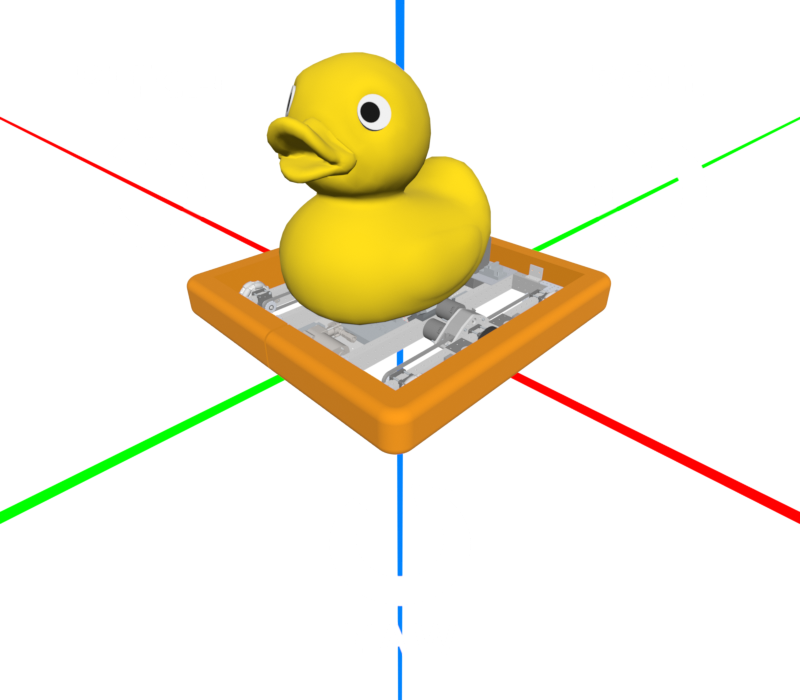
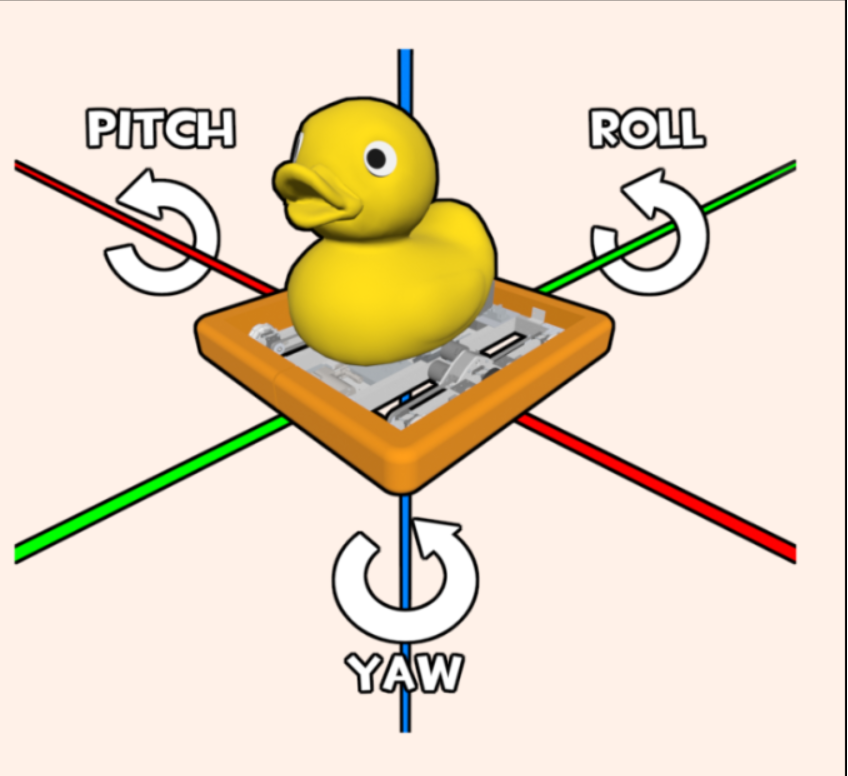
fixes from reviews

Changed region(s): [[0.0, 0.0, 1.0, 1.0]]

diff --git a/documentation/docs/Programming/TurnOnVision.md b/documentation/docs/Programming/TurnOnVision.md
@@ -22,7 +22,7 @@ public static final Transform3d LEFT_CAM_POS =
 
 The above is an example of the position of a right-facing camera which uses PhotonVision. The `Translation3d` takes in the input of the X (distance in front of/behind the origin assuming the robot is facing forward), the Y (distance left/right of the origin assuming the robot is facing forwards) and the Z (distance above/below the origin, which is the ground) distances from the origin of the robot in meters.
 
-Meanwhile, the `Rotation3d` determines how the camera is rotated in roll, pitch, and yaw. Roll, pitch, and yaw are applied in the order of yaw, pitch, and then roll, so basically backwards of the order they are defined.
+Meanwhile, the `Rotation3d` determines how the camera is rotated in roll, pitch, and yaw, with each of them being applied in that order.
 
 One way to visualize it is that roll rotation works like how a steering wheel spins, moving horizontally along a lateral axis. Pitch moves up and down, like nodding your head, while yaw is like shaking your head, turning side to side. The negative value in the roll argument above indicates that the camera is pointing up by 40 degrees. To indicate that our camera is facing right, we turn 90 degrees clockwise for the yaw argument. If we were facing left, this number would be negative.
 
@@ -37,19 +37,19 @@ To get both the angles and positions of the camera, we can turn to Onshape. If y
 
 #### Getting Camera Positions
 
-[]. Open up the Robot Master document, then find and click on your camera.
+- [ ]. Open up the Robot Master document, then find and click on your camera.
 
 ![SelectCamera](../images/ClickOnCamera.png)
 
-[]. Then, find the origin (whether by clicking on it or just finding it inside the file tree).
+- [ ]. Then, find the origin (whether by clicking on it or just finding it inside the file tree).
 
 ![SelectOrigin](../images/SelectOrigin.png)
 
-[]. Click the little measuring tape icon in the very bottom right.
+- [ ]. Click the little measuring tape icon in the very bottom right.
 
-![](../images/MeasuringTape.png)
+!- [ ](../images/MeasuringTape.png)
 
-[]. Change your distance-measuring unit to meters and just like that, you have your inputs for your camera `Translation3d`!
+- [ ]. Change your distance-measuring unit to meters and just like that, you have your inputs for your camera `Translation3d`!
 
 ![GetPosFromMinDistance](../images/getCameraPos.png)
 
@@ -94,15 +94,15 @@ Go to the latest version of Limelight OS and install the zip file for whichever 
 
 #### Installing onto the Camera
 
-[] Plug your computer into the camera via a USB cable (The robot should be on and the camera properly plugged in)
+- [ ] Plug your computer into the camera via a USB cable (The robot should be on and the camera properly plugged in)
 
-[] Open up the Raspberry Pi Imager
+- [ ] Open up the Raspberry Pi Imager
 
-[] Select the type of camera, then click `Use Custom` for the OS (it should be all the way at the bottom)
+- [ ] Select the type of camera, then click `Use Custom` for the OS (it should be all the way at the bottom)
 
-   [] Select the .img.xz file you downloaded earlier from the github repo (or .zip for Limelight)
+   - [ ] Select the .img.xz file you downloaded earlier from the github repo (or .zip for Limelight)
 
-[] For storage, the camera you are plugged into should pop up. NEVER EVER uncheck the box that excludes system devices, unless you want to end up replacing your own computer's operating system with the one for the camera, which is not a great plan.
+- [ ] For storage, the camera you are plugged into should pop up. NEVER EVER uncheck the box that excludes system devices, unless you want to end up replacing your own computer's operating system with the one for the camera, which is not a great plan.
 
 After it finishes the imaging process, the camera should be ready to run! Repeat the previous steps (minus installing the apps and images of course) for all of your cameras.
 
@@ -112,25 +112,27 @@ After it finishes the imaging process, the camera should be ready to run! Repeat
 
 Now that we have our camera positions and they have their operating systems installed, we need to open up the web interface. However, we are met with a problem: we don't know what the IP address to open up the interface is right now. So, let's figure it out!
 
-First, we need to download [Advanced IP Scanner](https://www.advanced-ip-scanner.com/). This is what allows us to detect what IP addresses are in the vicinity, including our mysterious camera! Make sure to set the scanning range from 10.21.22.1-254, so we are only checking for IP addresses for the robot instead of everything in the vacinity. Then, click scan!
+First, we need to download [Advanced IP Scanner](https://www.advanced-ip-scanner.com/). This is what allows us to detect what IP addresses are on the network, including our mysterious camera! Make sure to set the scanning range from 10.21.22.1-254, so we are only checking for IP addresses for the robot instead of every single address on the network. Then, click scan!
 
 So, an example of this would be `10.21.22.201`. Once we find this IP address, we can type it into our browser, and attach the port `:5800` to the end if you are using PhotonVision. If all is well, it should open up our web interface for one of our cameras!
 
-However, we don't want to have to scan for this every single time we want to boot up the web interface. Instead, we go into settings, make the IP static, and change the super secret number to a number in the range of 6-19, and re-open the interface.
+However, we don't want to have to scan for this every single time we want to boot up the web interface. Instead, we go into settings, make the IP static, and change the super secret number to a number in the range of 6-19, and re-open the interface. 
+
+**NOTE**: On Tators, we set the last number of our camera IP addresses to 11 and above so we don't have to guess whether an address is a camera or not.
 
 So, if we were opening up the interface again and set our super secret number to 13, our new IP address to type into our browser would be `10.21.22.13:5800`
 
 ### Camera Configuration
 
-[] Make sure to set the name of your camera to the same name as whatever is in the code by clicking on the pencil next to the camera name in the dropdown in the top right of the dashboard. We love consistency!
+- [ ] Make sure to set the name of your camera to the same name as whatever is in the code by clicking on the pencil next to the camera name in the dropdown in the top right of the dashboard. We love consistency!
 
-[] If your camera is upside-down or sideways, then change the camera orientation in the web interface, so it is facing upright
+- [ ] If your camera is upside-down or sideways, then change the camera orientation in the web interface, so it is facing upright
 
-[] Hold an AprilTag at least a couple steps away from the camera. If it can't detect it (there isn't a brightly-colored box that lights up around the tag in the interface), mess with the exposure and brightness until it can.
+- [ ] Hold an AprilTag at least a couple steps away from the camera. If it can't detect it (there isn't a brightly-colored box that lights up around the tag in the interface), mess with the exposure and brightness until it can.
 
 **Note**: We often have to compromise with better detection through better resultion/exposure and lower latency. A higher latency (lag) could mean that by the time the camera updates and we detect a tag, we are in a totally different position, so we want to minimize it as much as possible while still detecting tags in the first place. The code should allow for quite a bit of latency, but a good goal for a minimum FPS would likely be around 30-45 frames per second. 
 
-[] If you are using Limelight, make sure to input your camera positions relative to the origin in meters in the 3D/Orientation tab
+- [ ] If you are using Limelight, make sure to input your camera positions relative to the origin in meters in the 3D/Orientation tab
 
 **Repeat the steps in the above 2 sections for each of your cameras.**
 
@@ -142,46 +144,46 @@ Now that our amazing robot has vision, we need to calibrate the cameras so they 
 
 **PhotonVision - Calibrating Cameras**
 
-[] Aquire a printed-out checkerboard. This will be the calibration reference.
+- [ ] Aquire a printed-out checkerboard. This will be the calibration reference.
 
-[] Go to the calibration tab for the web interface for whichever camera you're calibrating and follow the instructions on-screen, taking at least 50 photos of the checkerboard from various angles and distances. The key here is to get a really solid data set full of a ton of different angles and distances, rather than just head-on.
+- [ ] Go to the calibration tab for the web interface for whichever camera you're calibrating and follow the instructions on-screen, taking at least 50 photos of the checkerboard from various angles and distances. The key here is to get a really solid data set full of a ton of different angles and distances, rather than just head-on.
 
-[] Save and apply the configuration 
+- [ ] Save and apply the configuration 
 
-[] Open up the AprilTag pipeline settings (still inside the web interface) and in the Mode selector, change it from 2D to 3D
+- [ ] Open up the AprilTag pipeline settings (still inside the web interface) and in the Mode selector, change it from 2D to 3D
 
-[] Enter the exact size of the AprilTag into the Tag Size input
+- [ ] Enter the exact size of the AprilTag into the Tag Size input
 
-[] Verify it works by holding up an AprilTag near the camera. If everything worked, then a cube should overlay on top of the tag on the web interface, rather than the square you should have had before.
+- [ ] Verify it works by holding up an AprilTag near the camera. If everything worked, then a cube should overlay on top of the tag on the web interface, rather than the square you should have had before.
 
 **Limelight - Camera setup**
 
 Thankfully, there is no painstaking process for Limelight cameras to perform 3D tag detection. However, we want to make sure that we do these extra things inside the Limelight hardware manager
 
-[] Inside the input tab, change "Pipeline Type" to "Fiducial Markers" and make the highest available resolution for 3D tracking.
+- [ ] Inside the input tab, change "Pipeline Type" to "Fiducial Markers" and make the highest available resolution for 3D tracking.
 
-[] Set the "Black Level" to zero and the "Gain" to 15 (also in input tab)
+- [ ] Set the "Black Level" to zero and the "Gain" to 15 (also in input tab)
 
-[] Go to the Standard Tab and make sure "family" is set to "AprilTag Classic 36h11"
+- [ ] Go to the Standard Tab and make sure "family" is set to "AprilTag Classic 36h11"
 
 #### Testing it out!
 
 Lastly, we want to make sure it all works together.
 
-[] Establish a connection to your robot via the wifi or connecting to the radio
+- [ ] Establish a connection to your robot via the wifi or connecting to the radio
 
-[] Deploy your robot code
+- [ ] Deploy your robot code
 
-[] Open up AdvantageScope and connect to your robot
+- [ ] Open up AdvantageScope and connect to your robot (Open up the File dropdown and then press "Connect to Robot")
 
-[] Open up a 3D field by clicking the + and then 3D field
+- [ ] Open up a 3D field by clicking the + and then 3D field
 
-[] Drag in the position of the robot in 3D space, also known as the Pose (for us, it should be under the Drive dropdown as `Drive/Pose`) into the `Poses` box
+- [ ] Drag in the position of the robot in 3D space, also known as the Pose (for us, it should be under the Drive dropdown as `Drive/Pose`) into the `Poses` box
 
-[] Find `RobotPosesAccepted` under the Vision dropdown, and nest it inside the `Drive/Pose`. Then, select it to be a Vision target. To nest a pose when dragging it into the box, hold your mouse inside the rectangle for the pose you are trying to nest it under when dropping it in. To set it to be a Vision Target instead of a component or any other model, click on the icon next to the name of the pose once it is dragged in and click Vision Target instead from the dropdown that appears.
+- [ ] Find `RobotPosesAccepted` under the Vision dropdown, and nest it inside the `Drive/Pose`. Then, select it to be a Vision target. To nest a pose when dragging it into the box, hold your mouse inside the rectangle for the pose you are trying to nest it under when dropping it in. To set it to be a Vision Target instead of a component or any other model, click on the icon next to the name of the pose once it is dragged in and click Vision Target instead from the dropdown that appears.
 
-[] Also drag in `Vision/TagPosesAccepted` into the Poses box, but not nested in `Drive/Pose`.
+- [ ] Also drag in `Vision/TagPosesAccepted` into the Poses box, but not nested in `Drive/Pose`.
 
-[] Hold up a tag. Is the robot where it should be on the field? If it is detecting the tag but not facing the right way/its position is off, you might have not negated the camera position values in the `Translation3d` correctly, so go do that and re-deploy your code. One way to make sure the robot is facing the right way is to either use a placeholder like the DuckBot or our beloved 3D models in sim model for the current robot if available. To change the type of robot, click the icon next to `Drive/Pose` in your `Poses` box and select whatever robot from the list in the dropdown that appears.
+- [ ] Hold up a tag. Is the robot where it should be on the field? If it is detecting the tag but not facing the right way/its position is off, you might have not negated the camera position values in the `Translation3d` correctly, so go do that and re-deploy your code. One way to make sure the robot is facing the right way is to either use a placeholder like the DuckBot or our beloved 3D models in sim model for the current robot if available. To change the type of robot, click the icon next to `Drive/Pose` in your `Poses` box and select whatever robot from the list in the dropdown that appears.
 
 If after all this your robot is in the right spot, you did it! At last, your robot can see!
